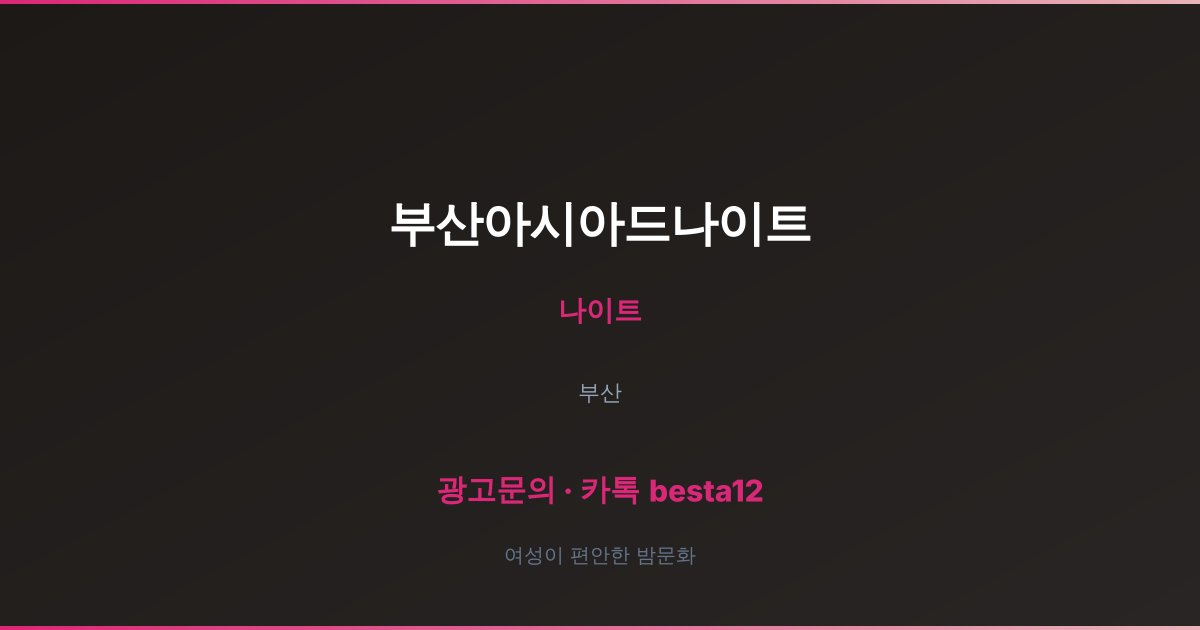
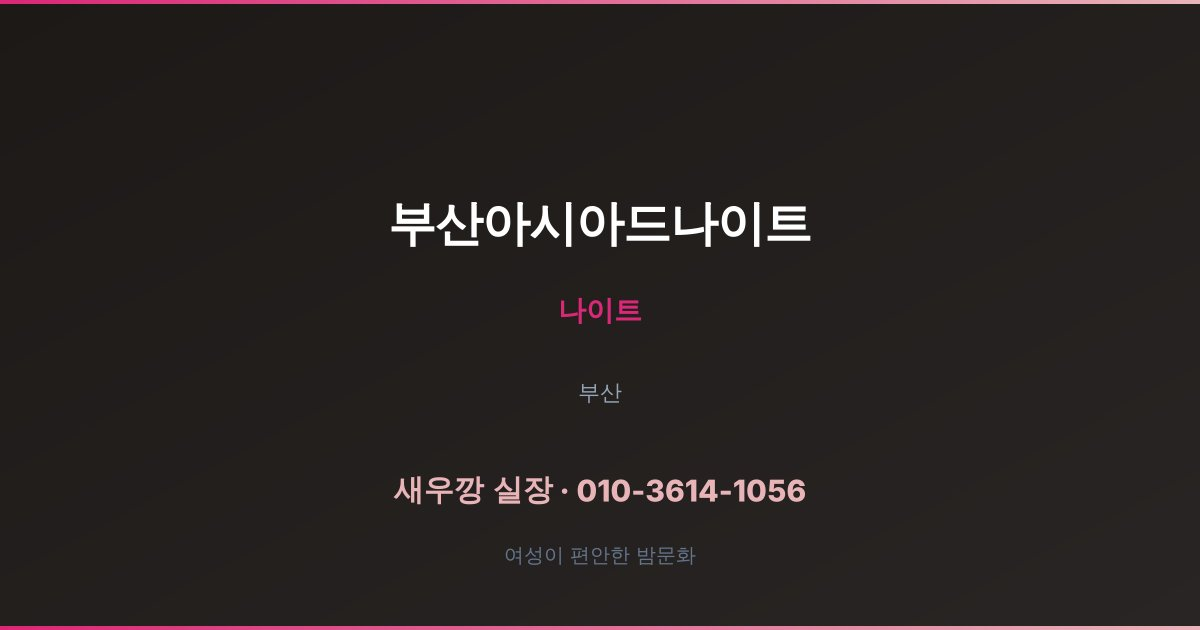
광고주 명단 완성 반영: 대전세븐·부산아시아드·부산물·일산명월관 등 승격
- 대전세븐(영탁)·부산아시아드(새우깡)·부산물(따봉)·일산명월관요정(신실장) 광고주 지정
- og 썸네일 재생성(광고주=실장·번호, 비광고주=광고문의 besta12)

Claude-Session: https://claude.ai/code/session_01WV5TGQNqaZCC4z66NDSTkr

Changed region(s): [[0.3083, 0.754, 0.6783, 0.8143]]

diff --git a/src/data/venues.ts b/src/data/venues.ts
@@ -107,13 +107,13 @@ export const venues: Venue[] = [
     address: '고양시 일산동구 장항로 895-1',
     description: '전통 한식과 기생 문화를 계승한 일산 유일의 정통 요정입니다.',
     hours: 'PM 6:00 ~ AM 12:00',
-    phone: '별도문의',
+    phone: '010-3695-4929',
     tags: ['일산', '요정', '전통'],
     card_hook: '전통 기생 문화를 잇는 정통 요정.\n한식과 풍류가 어우러지는 품격의 자리.',
     card_value: '정통 요정 · PM 6:00~',
     card_tags: '일산 · 전통요정 · 한식풍류',
     keyword: '일산명월관요정',
-    contact: '',
+    contact: '신실장',
     category: 'yojeong',
   },
 
@@ -715,7 +715,8 @@ export const venues: Venue[] = [
     address: '대전 서구',
     description: '충청 전역에서 손님이 모이는 대전 대표 무대, 사운드 시스템이 입증된 곳입니다.',
     hours: 'PM 9:00 ~ AM 5:00',
-    phone: '별도문의',
+    phone: '010-7770-0869',
+    contact: '영탁',
     tags: ['대전', '서구', '나이트', '세븐', '충청대표'],
     card_hook: '충청 전역에서 모이는 대표 무대.\n사운드 시스템 하나로 입소문이 퍼진 곳.',
     card_value: '대전 대표 · 충청 중심 · PM 9:00~',
@@ -942,7 +943,8 @@ export const venues: Venue[] = [
     address: '부산 연제구',
     description: '부산 연제구 스포츠 타운 인근, 대형 무대와 강력한 사운드의 조합입니다.',
     hours: 'PM 9:00 ~ AM 5:00',
-    phone: '별도문의',
+    phone: '010-3614-1056',
+    contact: '새우깡',
     tags: ['부산', '연제구', '나이트', '아시아드', '대형'],
     card_hook: '스포츠 타운 인근, 대형 무대의 위력.\n강력한 사운드가 몸을 먼저 움직이게 한다.',
     card_value: '부산 · 대형 무대 · PM 9:00~',
@@ -959,13 +961,13 @@ export const venues: Venue[] = [
     address: '부산 부산진구',
     description: '부산진구 워터 콘셉트 나이트, 시각 연출과 음향이 남다른 공간입니다.',
     hours: 'PM 9:00 ~ AM 5:00',
-    phone: '별도문의',
+    phone: '010-7942-9076',
     tags: ['부산', '부산진구', '나이트', '물'],
     card_hook: '워터 콘셉트 시각 연출.\n부산진구에서만 만날 수 있는 색다른 밤.',
     card_value: '워터 콘셉트 · PM 9:00~',
     card_tags: '부산 · 워터연출',
     keyword: '부산물나이트',
-    contact: '',
+    contact: '따봉',
     category: 'night',
   },
   {
